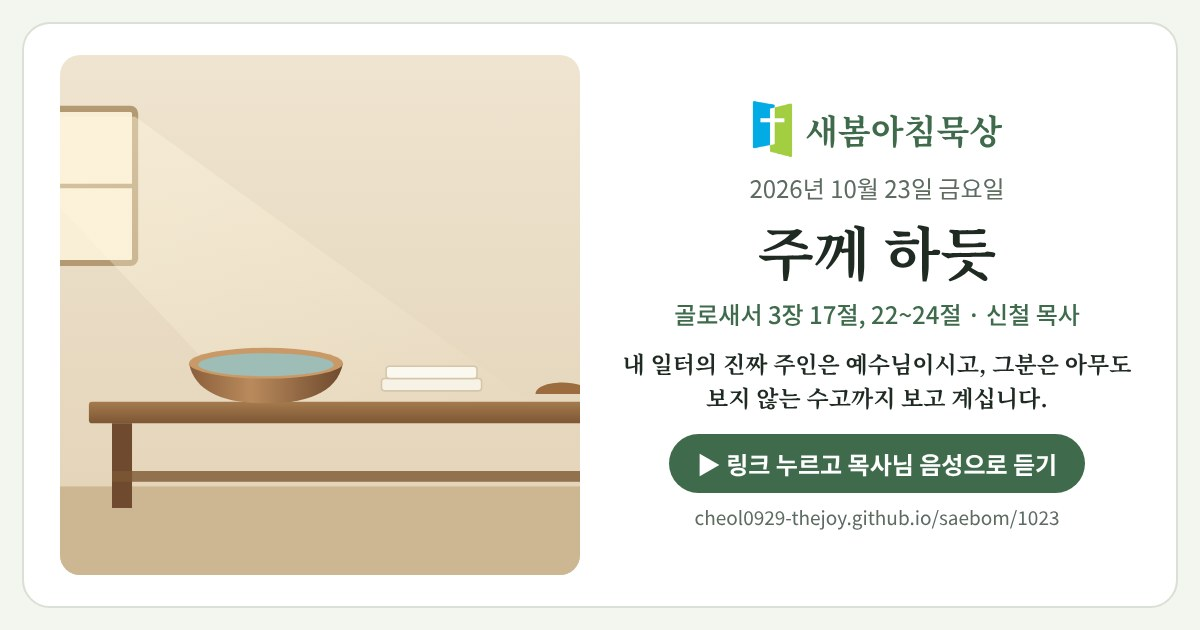
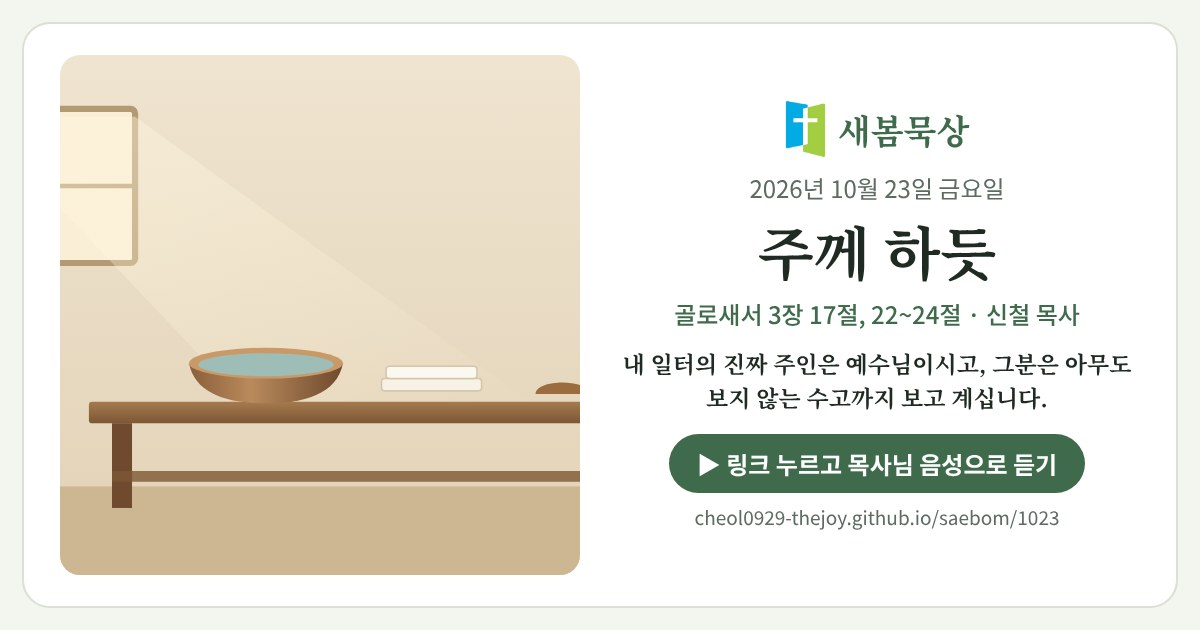
이름을 다시 새봄묵상으로
Claude-Session: https://claude.ai/code/session_015QLrzJ3eQQwXRfgxaMfB7k

Changed region(s): [[0.6167, 0.1508, 0.8325, 0.2714]]

diff --git a/kakao.html b/kakao.html
@@ -4,7 +4,7 @@
 <meta charset="utf-8">
 <meta name="viewport" content="width=device-width,initial-scale=1">
 <meta name="robots" content="noindex">
-<title>새봄아침묵상 카카오톡으로 보내기</title>
+<title>새봄묵상 카카오톡으로 보내기</title>
 <style>
   :root{--bg:#F5F2EA;--card:#fff;--ink:#22302A;--muted:#6B7368;--leaf:#3F6B4C}
   @media (prefers-color-scheme:dark){:root{--bg:#141A16;--card:#1D2520;--ink:#E8EDE6;--muted:#9AA79C;--leaf:#8DBE97}}
@@ -22,9 +22,9 @@
 </head>
 <body>
 <main>
-  <h1>오늘의 새봄아침묵상 보내기</h1>
+  <h1>오늘의 새봄묵상 보내기</h1>
   <p>아래 노란 버튼을 누르고 받을 친구나 단톡방을 고르시면<br>이 그림 카드가 그대로 전달됩니다.</p>
-  <img id="pic" alt="새봄아침묵상 카드">
+  <img id="pic" alt="새봄묵상 카드">
   <button id="send" type="button">💬 카카오톡으로 보내기</button>
   <div class="msg" id="msg" role="status"></div>
 </main>
@@ -34,7 +34,7 @@
   var BASE="https://cheol0929-thejoy.github.io/saebom/";
   var d=(new URLSearchParams(location.search).get("d")||"").trim();
   var msg=document.getElementById("msg"), btn=document.getElementById("send");
-  if(!/^\d{4}$/.test(d)){msg.textContent="묵상 날짜가 없습니다. 새봄아침묵상 페이지에서 다시 눌러 주세요.";btn.disabled=true;return;}
+  if(!/^\d{4}$/.test(d)){msg.textContent="묵상 날짜가 없습니다. 새봄묵상 페이지에서 다시 눌러 주세요.";btn.disabled=true;return;}
   document.getElementById("pic").src=BASE+d+"/share.jpg";
   var ready=false;
   try{ if(window.Kakao){ if(!Kakao.isInitialized()) Kakao.init("18f90d0a89fa7ab9aa74779f9fae1c5e"); ready=Kakao.isInitialized(); } }catch(e){}

diff --git a/404.html b/404.html
@@ -1,5 +1,5 @@
 <!doctype html><html lang="ko"><head><meta charset="utf-8"><meta name="viewport" content="width=device-width,initial-scale=1">
-<title>새봄아침묵상</title><meta property="og:title" content="새봄아침묵상"><meta property="og:description" content="새봄교회 매일 묵상 · 신철 목사">
+<title>새봄묵상</title><meta property="og:title" content="새봄묵상"><meta property="og:description" content="새봄교회 매일 묵상 · 신철 목사">
 <meta property="og:image" content="https://cheol0929-thejoy.github.io/saebom/og.jpg"><meta property="og:image:width" content="1200"><meta property="og:image:height" content="630">
 <style>body{font-family:sans-serif;text-align:center;padding:40px 16px;background:#F3F5EF}a{color:#3F6B4C;font-size:20px}</style></head>
-<body><p>새봄아침묵상으로 이동합니다…</p><p><a href="https://claude.ai/artifact/83acT3uNMUC3NGidY5284F">바로 가기</a></p><script>setTimeout(function(){location.replace("https://claude.ai/artifact/83acT3uNMUC3NGidY5284F");},300);</script></body></html>
+<body><p>새봄묵상으로 이동합니다…</p><p><a href="https://claude.ai/artifact/83acT3uNMUC3NGidY5284F">바로 가기</a></p><script>setTimeout(function(){location.replace("https://claude.ai/artifact/83acT3uNMUC3NGidY5284F");},300);</script></body></html>

diff --git a/index.html b/index.html
@@ -1,5 +1,5 @@
 <!doctype html><html lang="ko"><head><meta charset="utf-8"><meta name="viewport" content="width=device-width,initial-scale=1">
-<title>새봄아침묵상</title><meta property="og:title" content="새봄아침묵상"><meta property="og:description" content="새봄교회 매일 묵상 · 신철 목사">
+<title>새봄묵상</title><meta property="og:title" content="새봄묵상"><meta property="og:description" content="새봄교회 매일 묵상 · 신철 목사">
 <meta property="og:image" content="https://cheol0929-thejoy.github.io/saebom/og.jpg"><meta property="og:image:width" content="1200"><meta property="og:image:height" content="630">
 <style>body{font-family:sans-serif;text-align:center;padding:40px 16px;background:#F3F5EF}a{color:#3F6B4C;font-size:20px}</style></head>
-<body><p>새봄아침묵상으로 이동합니다…</p><p><a href="https://claude.ai/artifact/83acT3uNMUC3NGidY5284F">바로 가기</a></p><script>setTimeout(function(){location.replace("https://claude.ai/artifact/83acT3uNMUC3NGidY5284F");},300);</script></body></html>
+<body><p>새봄묵상으로 이동합니다…</p><p><a href="https://claude.ai/artifact/83acT3uNMUC3NGidY5284F">바로 가기</a></p><script>setTimeout(function(){location.replace("https://claude.ai/artifact/83acT3uNMUC3NGidY5284F");},300);</script></body></html>

diff --git a/1014.html b/1014.html
@@ -2,7 +2,7 @@
 <meta name="viewport" content="width=device-width,initial-scale=1">
 <title>새봄 2026</title>
 <meta property="og:type" content="article">
-<meta property="og:site_name" content="새봄아침묵상">
+<meta property="og:site_name" content="새봄묵상">
 <meta property="og:title" content="새봄 2026">
 <meta property="og:description" content="교회, 사명의 자리에 서라">
 <meta name="description" content="교회, 사명의 자리에 서라">
@@ -12,5 +12,5 @@
 <meta property="og:image:width" content="1200"><meta property="og:image:height" content="630">
 <meta name="twitter:card" content="summary_large_image">
 <style>body{font-family:sans-serif;text-align:center;padding:40px 16px;background:#F3F5EF;color:#1F2A22}a{color:#3F6B4C;font-size:20px}</style>
-</head><body><p>새봄아침묵상으로 이동합니다…</p><p><a href="https://claude.ai/artifact/83acT3uNMUC3NGidY5284F#d20261014">바로 가기</a></p>
+</head><body><p>새봄묵상으로 이동합니다…</p><p><a href="https://claude.ai/artifact/83acT3uNMUC3NGidY5284F#d20261014">바로 가기</a></p>
 <script>setTimeout(function(){location.replace("https://claude.ai/artifact/83acT3uNMUC3NGidY5284F#d20261014");},300);</script></body></html>

diff --git a/1014/index.html b/1014/index.html
@@ -2,7 +2,7 @@
 <meta name="viewport" content="width=device-width,initial-scale=1">
 <title>새봄 2026</title>
 <meta property="og:type" content="article">
-<meta property="og:site_name" content="새봄아침묵상">
+<meta property="og:site_name" content="새봄묵상">
 <meta property="og:title" content="새봄 2026">
 <meta property="og:description" content="교회, 사명의 자리에 서라">
 <meta name="description" content="교회, 사명의 자리에 서라">
@@ -12,5 +12,5 @@
 <meta property="og:image:width" content="1200"><meta property="og:image:height" content="630">
 <meta name="twitter:card" content="summary_large_image">
 <style>body{font-family:sans-serif;text-align:center;padding:40px 16px;background:#F3F5EF;color:#1F2A22}a{color:#3F6B4C;font-size:20px}</style>
-</head><body><p>새봄아침묵상으로 이동합니다…</p><p><a href="https://claude.ai/artifact/83acT3uNMUC3NGidY5284F#d20261014">바로 가기</a></p>
+</head><body><p>새봄묵상으로 이동합니다…</p><p><a href="https://claude.ai/artifact/83acT3uNMUC3NGidY5284F#d20261014">바로 가기</a></p>
 <script>setTimeout(function(){location.replace("https://claude.ai/artifact/83acT3uNMUC3NGidY5284F#d20261014");},300);</script></body></html>

diff --git a/1015.html b/1015.html
@@ -2,7 +2,7 @@
 <meta name="viewport" content="width=device-width,initial-scale=1">
 <title>새봄 2026</title>
 <meta property="og:type" content="article">
-<meta property="og:site_name" content="새봄아침묵상">
+<meta property="og:site_name" content="새봄묵상">
 <meta property="og:title" content="새봄 2026">
 <meta property="og:description" content="교회, 사명의 자리에 서라">
 <meta name="description" content="교회, 사명의 자리에 서라">
@@ -12,5 +12,5 @@
 <meta property="og:image:width" content="1200"><meta property="og:image:height" content="630">
 <meta name="twitter:card" content="summary_large_image">
 <style>body{font-family:sans-serif;text-align:center;padding:40px 16px;background:#F3F5EF;color:#1F2A22}a{color:#3F6B4C;font-size:20px}</style>
-</head><body><p>새봄아침묵상으로 이동합니다…</p><p><a href="https://claude.ai/artifact/83acT3uNMUC3NGidY5284F#d20261015">바로 가기</a></p>
+</head><body><p>새봄묵상으로 이동합니다…</p><p><a href="https://claude.ai/artifact/83acT3uNMUC3NGidY5284F#d20261015">바로 가기</a></p>
 <script>setTimeout(function(){location.replace("https://claude.ai/artifact/83acT3uNMUC3NGidY5284F#d20261015");},300);</script></body></html>

diff --git a/1015/index.html b/1015/index.html
@@ -2,7 +2,7 @@
 <meta name="viewport" content="width=device-width,initial-scale=1">
 <title>새봄 2026</title>
 <meta property="og:type" content="article">
-<meta property="og:site_name" content="새봄아침묵상">
+<meta property="og:site_name" content="새봄묵상">
 <meta property="og:title" content="새봄 2026">
 <meta property="og:description" content="교회, 사명의 자리에 서라">
 <meta name="description" content="교회, 사명의 자리에 서라">
@@ -12,5 +12,5 @@
 <meta property="og:image:width" content="1200"><meta property="og:image:height" content="630">
 <meta name="twitter:card" content="summary_large_image">
 <style>body{font-family:sans-serif;text-align:center;padding:40px 16px;background:#F3F5EF;color:#1F2A22}a{color:#3F6B4C;font-size:20px}</style>
-</head><body><p>새봄아침묵상으로 이동합니다…</p><p><a href="https://claude.ai/artifact/83acT3uNMUC3NGidY5284F#d20261015">바로 가기</a></p>
+</head><body><p>새봄묵상으로 이동합니다…</p><p><a href="https://claude.ai/artifact/83acT3uNMUC3NGidY5284F#d20261015">바로 가기</a></p>
 <script>setTimeout(function(){location.replace("https://claude.ai/artifact/83acT3uNMUC3NGidY5284F#d20261015");},300);</script></body></html>

diff --git a/1016.html b/1016.html
@@ -2,7 +2,7 @@
 <meta name="viewport" content="width=device-width,initial-scale=1">
 <title>새봄 2026</title>
 <meta property="og:type" content="article">
-<meta property="og:site_name" content="새봄아침묵상">
+<meta property="og:site_name" content="새봄묵상">
 <meta property="og:title" content="새봄 2026">
 <meta property="og:description" content="교회, 사명의 자리에 서라">
 <meta name="description" content="교회, 사명의 자리에 서라">
@@ -12,5 +12,5 @@
 <meta property="og:image:width" content="1200"><meta property="og:image:height" content="630">
 <meta name="twitter:card" content="summary_large_image">
 <style>body{font-family:sans-serif;text-align:center;padding:40px 16px;background:#F3F5EF;color:#1F2A22}a{color:#3F6B4C;font-size:20px}</style>
-</head><body><p>새봄아침묵상으로 이동합니다…</p><p><a href="https://claude.ai/artifact/83acT3uNMUC3NGidY5284F#d20261016">바로 가기</a></p>
+</head><body><p>새봄묵상으로 이동합니다…</p><p><a href="https://claude.ai/artifact/83acT3uNMUC3NGidY5284F#d20261016">바로 가기</a></p>
 <script>setTimeout(function(){location.replace("https://claude.ai/artifact/83acT3uNMUC3NGidY5284F#d20261016");},300);</script></body></html>

diff --git a/1016/index.html b/1016/index.html
@@ -2,7 +2,7 @@
 <meta name="viewport" content="width=device-width,initial-scale=1">
 <title>새봄 2026</title>
 <meta property="og:type" content="article">
-<meta property="og:site_name" content="새봄아침묵상">
+<meta property="og:site_name" content="새봄묵상">
 <meta property="og:title" content="새봄 2026">
 <meta property="og:description" content="교회, 사명의 자리에 서라">
 <meta name="description" content="교회, 사명의 자리에 서라">
@@ -12,5 +12,5 @@
 <meta property="og:image:width" content="1200"><meta property="og:image:height" content="630">
 <meta name="twitter:card" content="summary_large_image">
 <style>body{font-family:sans-serif;text-align:center;padding:40px 16px;background:#F3F5EF;color:#1F2A22}a{color:#3F6B4C;font-size:20px}</style>
-</head><body><p>새봄아침묵상으로 이동합니다…</p><p><a href="https://claude.ai/artifact/83acT3uNMUC3NGidY5284F#d20261016">바로 가기</a></p>
+</head><body><p>새봄묵상으로 이동합니다…</p><p><a href="https://claude.ai/artifact/83acT3uNMUC3NGidY5284F#d20261016">바로 가기</a></p>
 <script>setTimeout(function(){location.replace("https://claude.ai/artifact/83acT3uNMUC3NGidY5284F#d20261016");},300);</script></body></html>

diff --git a/1017.html b/1017.html
@@ -2,7 +2,7 @@
 <meta name="viewport" content="width=device-width,initial-scale=1">
 <title>새봄 2026</title>
 <meta property="og:type" content="article">
-<meta property="og:site_name" content="새봄아침묵상">
+<meta property="og:site_name" content="새봄묵상">
 <meta property="og:title" content="새봄 2026">
 <meta property="og:description" content="교회, 사명의 자리에 서라">
 <meta name="description" content="교회, 사명의 자리에 서라">
@@ -12,5 +12,5 @@
 <meta property="og:image:width" content="1200"><meta property="og:image:height" content="630">
 <meta name="twitter:card" content="summary_large_image">
 <style>body{font-family:sans-serif;text-align:center;padding:40px 16px;background:#F3F5EF;color:#1F2A22}a{color:#3F6B4C;font-size:20px}</style>
-</head><body><p>새봄아침묵상으로 이동합니다…</p><p><a href="https://claude.ai/artifact/83acT3uNMUC3NGidY5284F#d20261017">바로 가기</a></p>
+</head><body><p>새봄묵상으로 이동합니다…</p><p><a href="https://claude.ai/artifact/83acT3uNMUC3NGidY5284F#d20261017">바로 가기</a></p>
 <script>setTimeout(function(){location.replace("https://claude.ai/artifact/83acT3uNMUC3NGidY5284F#d20261017");},300);</script></body></html>

diff --git a/1017/index.html b/1017/index.html
@@ -2,7 +2,7 @@
 <meta name="viewport" content="width=device-width,initial-scale=1">
 <title>새봄 2026</title>
 <meta property="og:type" content="article">
-<meta property="og:site_name" content="새봄아침묵상">
+<meta property="og:site_name" content="새봄묵상">
 <meta property="og:title" content="새봄 2026">
 <meta property="og:description" content="교회, 사명의 자리에 서라">
 <meta name="description" content="교회, 사명의 자리에 서라">
@@ -12,5 +12,5 @@
 <meta property="og:image:width" content="1200"><meta property="og:image:height" content="630">
 <meta name="twitter:card" content="summary_large_image">
 <style>body{font-family:sans-serif;text-align:center;padding:40px 16px;background:#F3F5EF;color:#1F2A22}a{color:#3F6B4C;font-size:20px}</style>
-</head><body><p>새봄아침묵상으로 이동합니다…</p><p><a href="https://claude.ai/artifact/83acT3uNMUC3NGidY5284F#d20261017">바로 가기</a></p>
+</head><body><p>새봄묵상으로 이동합니다…</p><p><a href="https://claude.ai/artifact/83acT3uNMUC3NGidY5284F#d20261017">바로 가기</a></p>
 <script>setTimeout(function(){location.replace("https://claude.ai/artifact/83acT3uNMUC3NGidY5284F#d20261017");},300);</script></body></html>

diff --git a/1018.html b/1018.html
@@ -2,7 +2,7 @@
 <meta name="viewport" content="width=device-width,initial-scale=1">
 <title>새봄 2026</title>
 <meta property="og:type" content="article">
-<meta property="og:site_name" content="새봄아침묵상">
+<meta property="og:site_name" content="새봄묵상">
 <meta property="og:title" content="새봄 2026">
 <meta property="og:description" content="교회, 사명의 자리에 서라">
 <meta name="description" content="교회, 사명의 자리에 서라">
@@ -12,5 +12,5 @@
 <meta property="og:image:width" content="1200"><meta property="og:image:height" content="630">
 <meta name="twitter:card" content="summary_large_image">
 <style>body{font-family:sans-serif;text-align:center;padding:40px 16px;background:#F3F5EF;color:#1F2A22}a{color:#3F6B4C;font-size:20px}</style>
-</head><body><p>새봄아침묵상으로 이동합니다…</p><p><a href="https://claude.ai/artifact/83acT3uNMUC3NGidY5284F#d20261018">바로 가기</a></p>
+</head><body><p>새봄묵상으로 이동합니다…</p><p><a href="https://claude.ai/artifact/83acT3uNMUC3NGidY5284F#d20261018">바로 가기</a></p>
 <script>setTimeout(function(){location.replace("https://claude.ai/artifact/83acT3uNMUC3NGidY5284F#d20261018");},300);</script></body></html>
